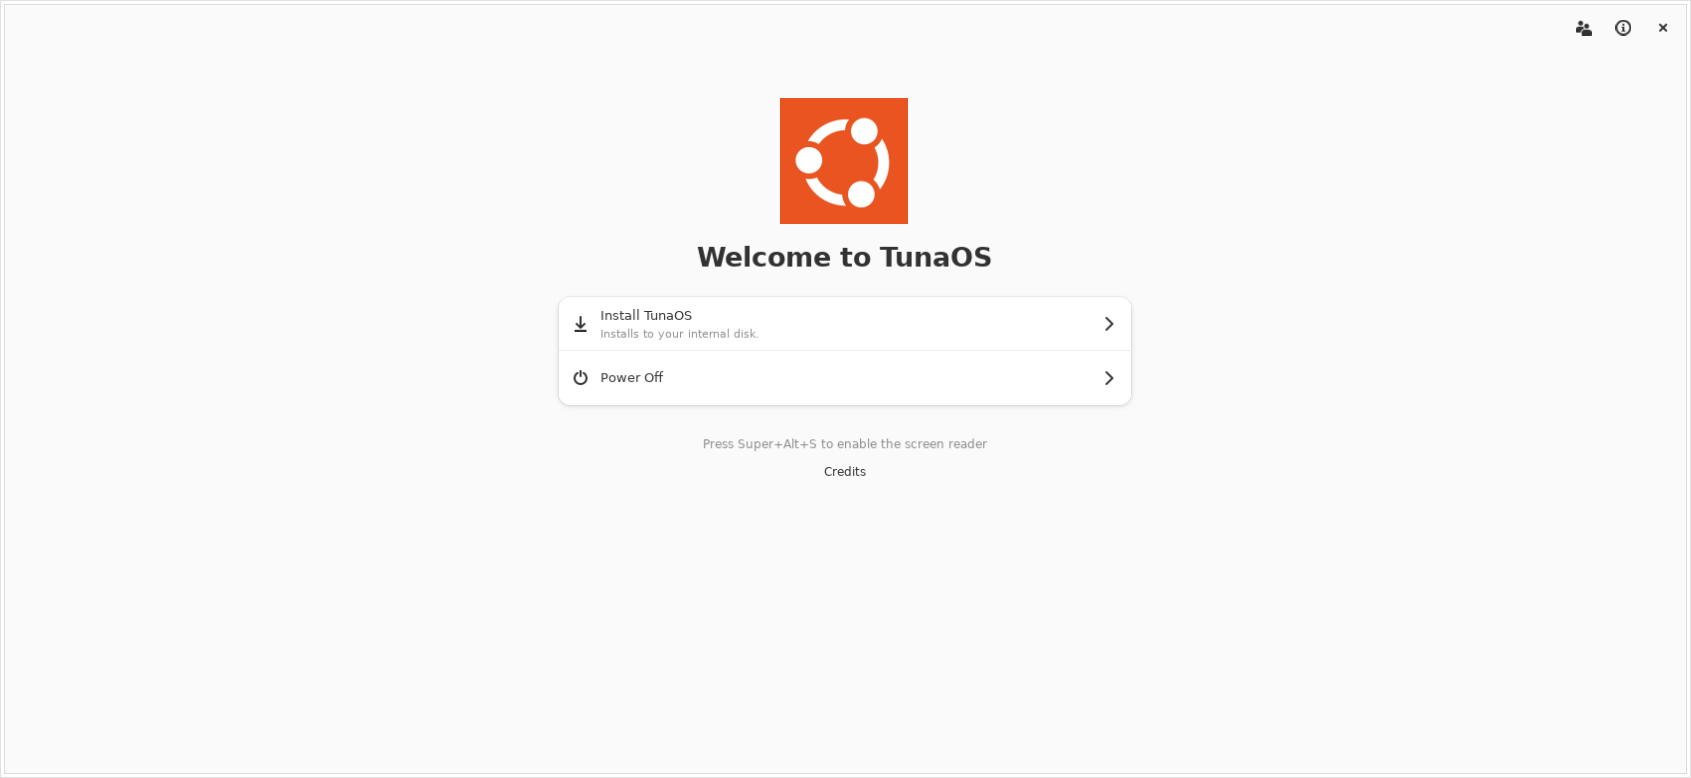
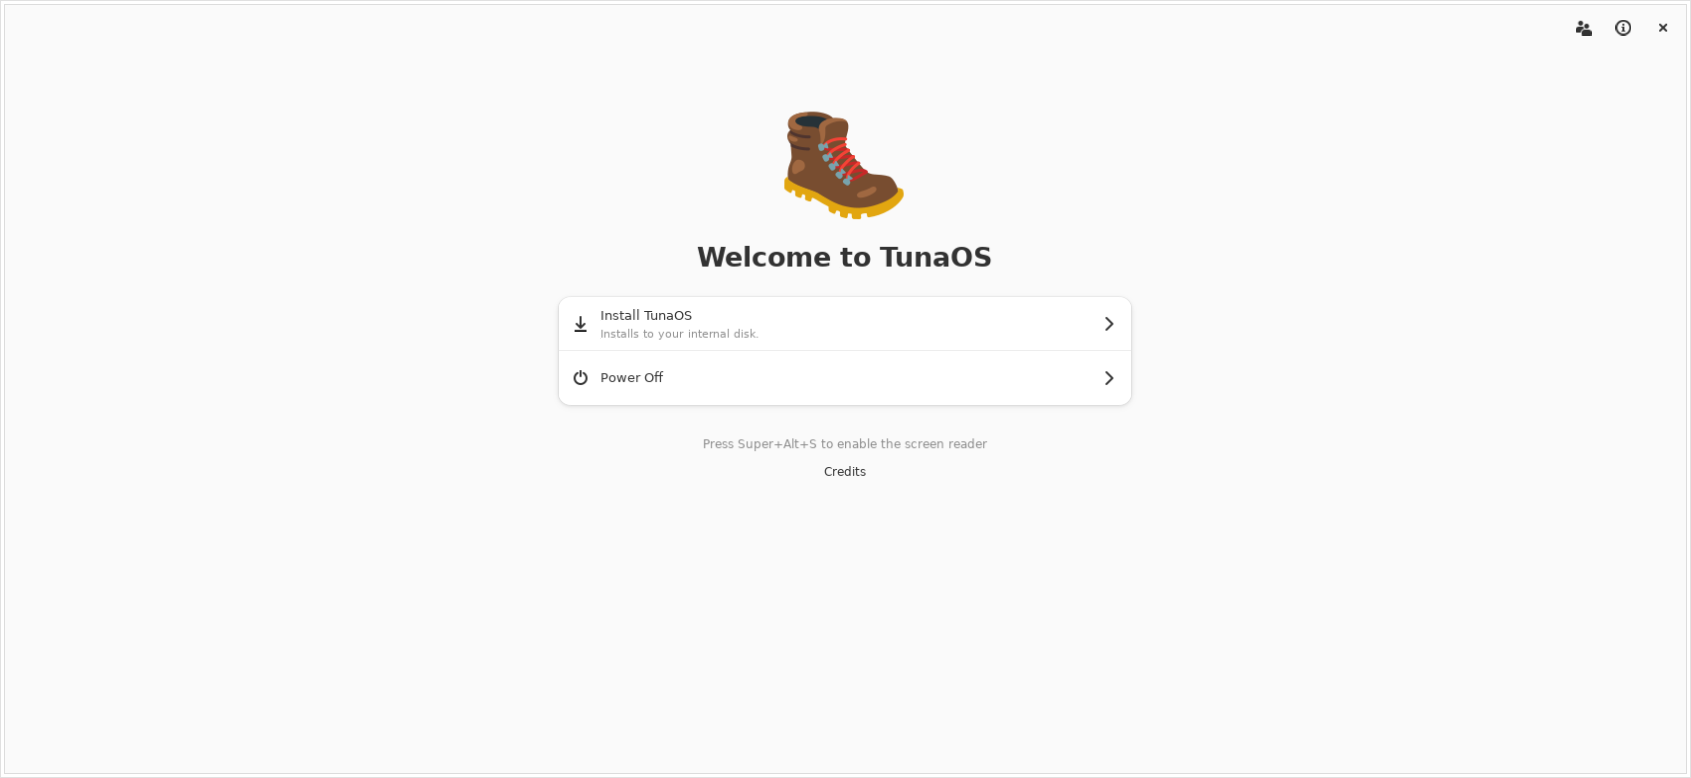
fix(capture): pin the whole branding object, not just the product name
The render harness put this on screen: XFCE's welcome page showed
"Welcome to Ubuntu 24.04.4 LTS" as its heading, "This assistant installs
TunaOS" as its body, and "TunaOS Installer" in its title bar -- two
product identities in one window. GNOME was consistent but only because
screenshots-gnome.yml passes BOOTC_INSTALLER_PRODUCT_NAME; run any other
way it renders the host's name throughout.

Both are the same fault: a capture resolves branding exactly as the
installer does, so an unpinned capture is branded by the machine that
took it.

XFCE pinned by assigning core.PRODUCT_NAME after importing core. core
resolves the whole Branding object once at import and formats every copy
key from it, so that assignment reached the one f-string that reads
PRODUCT_NAME and nothing else. The committed walkthrough has said
"Welcome to Ubuntu 24.04.5 LTS This assistant installs TunaOS" ever
since -- the runner's name and the pinned one, in one sentence.

BOOTC_INSTALLER_PRODUCT_NAME is not enough either: it covers `name`
alone. os-release's LOGO= went through untouched, which is why the
committed docs/screenshots/01-welcome.png -- the published GNOME
walkthrough -- shows the Ubuntu logo above "Welcome to TunaOS".

So pin the whole object. shared/walkthrough/capture-branding.json is the
pin; both GTK harnesses point BOOTC_INSTALLER_BRANDING at it before any
frontend import, via setdefault so a workflow naming a real product's
[…]

Changed region(s): [[0.4613, 0.1234, 0.5535, 0.3085]]

diff --git a/tests/unit/test_shared_branding.py b/tests/unit/test_shared_branding.py
@@ -190,3 +190,63 @@ class OsReleaseParsing(unittest.TestCase):
 
 if __name__ == "__main__":
     unittest.main()
+
+
+class CaptureBrandingPinTest(unittest.TestCase):
+    """shared/walkthrough/capture-branding.json pins what the captures render.
+
+    Screenshot captures resolve branding like the real installer does, so an
+    unpinned run is branded by whatever machine took it: the committed
+    docs/screenshots/01-welcome.png showed the Ubuntu logo above "Welcome to
+    TunaOS", because BOOTC_INSTALLER_PRODUCT_NAME pins `name` and nothing
+    else while os-release's LOGO= went straight through. XFCE was worse --
+    its heading read "Welcome to Ubuntu 24.04.5 LTS" beside a body saying
+    "installs TunaOS", two identities in one sentence.
+
+    So: resolve the capture pin against a deliberately foreign os-release and
+    require that nothing of the host survives.
+    """
+
+    PINNED = REPO / "shared" / "walkthrough" / "capture-branding.json"
+
+    def _resolved(self):
+        return branding.resolve(
+            branding_paths=[str(self.PINNED)],
+            os_release_paths=[str(FIXTURES / "os-release")],
+            env={},
+        )
+
+    def test_pin_file_exists(self):
+        self.assertTrue(self.PINNED.is_file(),
+                        f"{self.PINNED} is what the capture harnesses point at")
+
+    def test_name_comes_from_the_pin_not_the_host(self):
+        b = self._resolved()
+        self.assertEqual(b.name, "TunaOS")
+        self.assertNotIn("Example OS", b.name)
+
+    def test_logo_comes_from_the_pin_not_the_host(self):
+        # The one the name-only pin missed.
+        b = self._resolved()
+        self.assertEqual(b.logo, "org.bootcinstaller.Installer")
+        self.assertNotEqual(b.logo, "exampleos-logo")
+
+    def test_every_copy_key_naming_the_product_says_the_pinned_name(self):
+        b = self._resolved()
+        for key in ("welcome_title", "welcome_install", "done_title"):
+            rendered = b.text(key)
+            self.assertIn("TunaOS", rendered, f"{key} lost the pinned name")
+            self.assertNotIn("Example OS", rendered,
+                             f"{key} leaked the host's product name")
+
+    def test_the_harnesses_point_at_this_file(self):
+        # A pin nothing reads is not a pin. Both GTK capture harnesses must
+        # name it, or a future edit silently goes back to host branding.
+        for harness in (REPO / "tests" / "gui" / "capture-screens.py",
+                        REPO / "frontends" / "xfce" / "tests" / "gui"
+                        / "capture-screens.py"):
+            text = harness.read_text()
+            self.assertIn("capture-branding.json", text,
+                          f"{harness} no longer pins branding")
+            self.assertIn("BOOTC_INSTALLER_BRANDING", text,
+                          f"{harness} pins something weaker than the full object")

diff --git a/frontends/xfce/tests/gui/capture-screens.py b/frontends/xfce/tests/gui/capture-screens.py
@@ -82,6 +82,29 @@ os.environ["FISHERMAN_IMAGES_PATH"] = _catalog_path
 os.environ.setdefault("XDG_RUNTIME_DIR", _tmp)
 os.environ.setdefault("GTK_A11Y", "none")
 
+# Product branding is resolved from the host's os-release, so an unpinned
+# capture is BRANDED BY THE RUNNER: on a GitHub ubuntu-24.04 box the wizard
+# renders "Welcome to Ubuntu 24.04.4 LTS", and the main-branch job commits
+# those PNGs into docs/. Pin it so the committed walkthrough is stable and
+# says the family name, exactly as it did before branding became dynamic.
+# On a real Skipjack ISO the same attributes read "Skipjack" instead.
+#
+# This has to happen BEFORE tuna_installer_xfce.core is imported: core
+# resolves the whole Branding object once at import and every copy key is
+# formatted from it. Setting core.PRODUCT_NAME afterwards pinned only the
+# one f-string that reads it, which is why the committed walkthrough said
+# "Welcome to Ubuntu 24.04.5 LTS This assistant installs TunaOS" -- the
+# runner's name and the pinned one, in the same sentence.
+#
+# Pin the whole object rather than BOOTC_INSTALLER_PRODUCT_NAME, which covers
+# `name` alone and leaves os-release's LOGO and assets showing through.
+# setdefault, so a workflow pointing at a real product's file still wins.
+# REPO here is the frontend tree, not the monorepo root, so reach the shared
+# file the same way tests/gui/parity_report.py does.
+os.environ.setdefault("BOOTC_INSTALLER_BRANDING", os.path.normpath(os.path.join(
+    os.path.dirname(os.path.abspath(__file__)),
+    "..", "..", "..", "..", "shared", "walkthrough", "capture-branding.json")))
+
 # SAFETY, and not a small one. ProgressPage.on_enter() calls
 # win.start_install(), so simply navigating the wizard to the progress page
 # LAUNCHES A REAL INSTALL — there is no confirmation between the two. A capture
@@ -127,14 +150,6 @@ def _fake_host_run(argv, **kwargs):
 core.host_run = _fake_host_run
 core.live_iso_image = lambda: None
 core.offline_stores = lambda: []
-
-# Product branding is resolved from the host's os-release, so an unpinned
-# capture is BRANDED BY THE RUNNER: on a GitHub ubuntu-24.04 box the wizard
-# renders "Welcome to Ubuntu 24.04.4 LTS", and the main-branch job commits
-# those PNGs into docs/. Pin it so the committed walkthrough is stable and
-# says the family name, exactly as it did before branding became dynamic.
-# On a real Skipjack ISO the same attributes read "Skipjack" instead.
-core.PRODUCT_NAME = "TunaOS"
 
 from tuna_installer_xfce.app import PAGE_ORDER, InstallerWindow  # noqa: E402,F401
 

diff --git a/tests/gui/capture-screens.py b/tests/gui/capture-screens.py
@@ -48,6 +48,26 @@ os.environ.setdefault("BOOTC_DEMO", "1")
 # branding therefore follows recipe.json (distro_name / welcome_title); a
 # downstream ISO that overrides the recipe brands itself the same way.
 os.environ.setdefault("BOOTC_CUSTOM_RECIPE", os.path.join(REPO, "recipe.json"))
+# recipe.json carries no product strings, so branding still resolves from the
+# host's os-release and an unpinned capture is BRANDED BY THE RUNNER -- on an
+# ubuntu-24.04 box the wizard renders "Welcome to Ubuntu 24.04.4 LTS".
+#
+# Pin the whole branding object, not just the name. BOOTC_INSTALLER_PRODUCT_NAME
+# (which screenshots-gnome.yml passes) covers `name` and nothing else, so the
+# committed docs/screenshots/01-welcome.png reads "Welcome to TunaOS" under the
+# runner's Ubuntu LOGO: os-release `LOGO=ubuntu-logo` was never overridden.
+# setdefault, so a workflow pointing at a real product's file still wins.
+os.environ.setdefault(
+    "BOOTC_INSTALLER_BRANDING",
+    os.path.join(REPO, "shared", "walkthrough", "capture-branding.json"))
+# That branding names the app's own icon, which meson installs into the icon
+# theme but a from-source run has never seen -- it would render as the broken
+# -image glyph. data/ is laid out as a datadir (icons/hicolor/...), so putting
+# it on XDG_DATA_DIRS makes the theme find it without installing anything.
+os.environ["XDG_DATA_DIRS"] = os.pathsep.join([
+    os.path.join(REPO, "data"),
+    os.environ.get("XDG_DATA_DIRS") or "/usr/local/share:/usr/share",
+])
 # Skip the RAM / CPU / UEFI gate windows: this is a render of the wizard.
 os.environ.setdefault("IGNORE_RAM", "1")
 os.environ.setdefault("IGNORE_CPU", "1")

diff --git a/shared/branding/README.md b/shared/branding/README.md
@@ -95,6 +95,27 @@ the identity test), so no frontend needs a data file at runtime.
 the GNOME frontend used to hardcode; its README says how a live ISO ships
 it.
 
+## Pinning branding for screenshots
+
+A capture resolves branding exactly as the installer does, so an unpinned
+capture is branded by the machine that took it. `shared/walkthrough/capture-branding.json`
+is the pin, and both GTK capture harnesses point `BOOTC_INSTALLER_BRANDING`
+at it (with `setdefault`, so a workflow naming a real product's file wins).
+
+Pin the **whole object**, not `BOOTC_INSTALLER_PRODUCT_NAME`. That variable
+covers `name` and nothing else, which is how the committed
+`docs/screenshots/01-welcome.png` came to show the Ubuntu logo above
+"Welcome to TunaOS" — os-release's `LOGO=ubuntu-logo` was never overridden.
+XFCE showed the same fault in text: its heading read "Welcome to Ubuntu
+24.04.5 LTS" next to a body reading "installs TunaOS", because only the one
+f-string that reads `core.PRODUCT_NAME` had been pinned and every copy key
+still came from the host.
+
+`tests/unit/test_shared_branding.py::CaptureBrandingPinTest` resolves the pin
+against a deliberately foreign os-release and fails if any host value
+survives. Niri needs no env pin — its capture stubs the whole branding object
+in `tests/qml-stubs`, which is why its walkthrough was always right.
+
 ## Implementations
 
 One per language, each reading the same fixtures under `fixtures/`:
